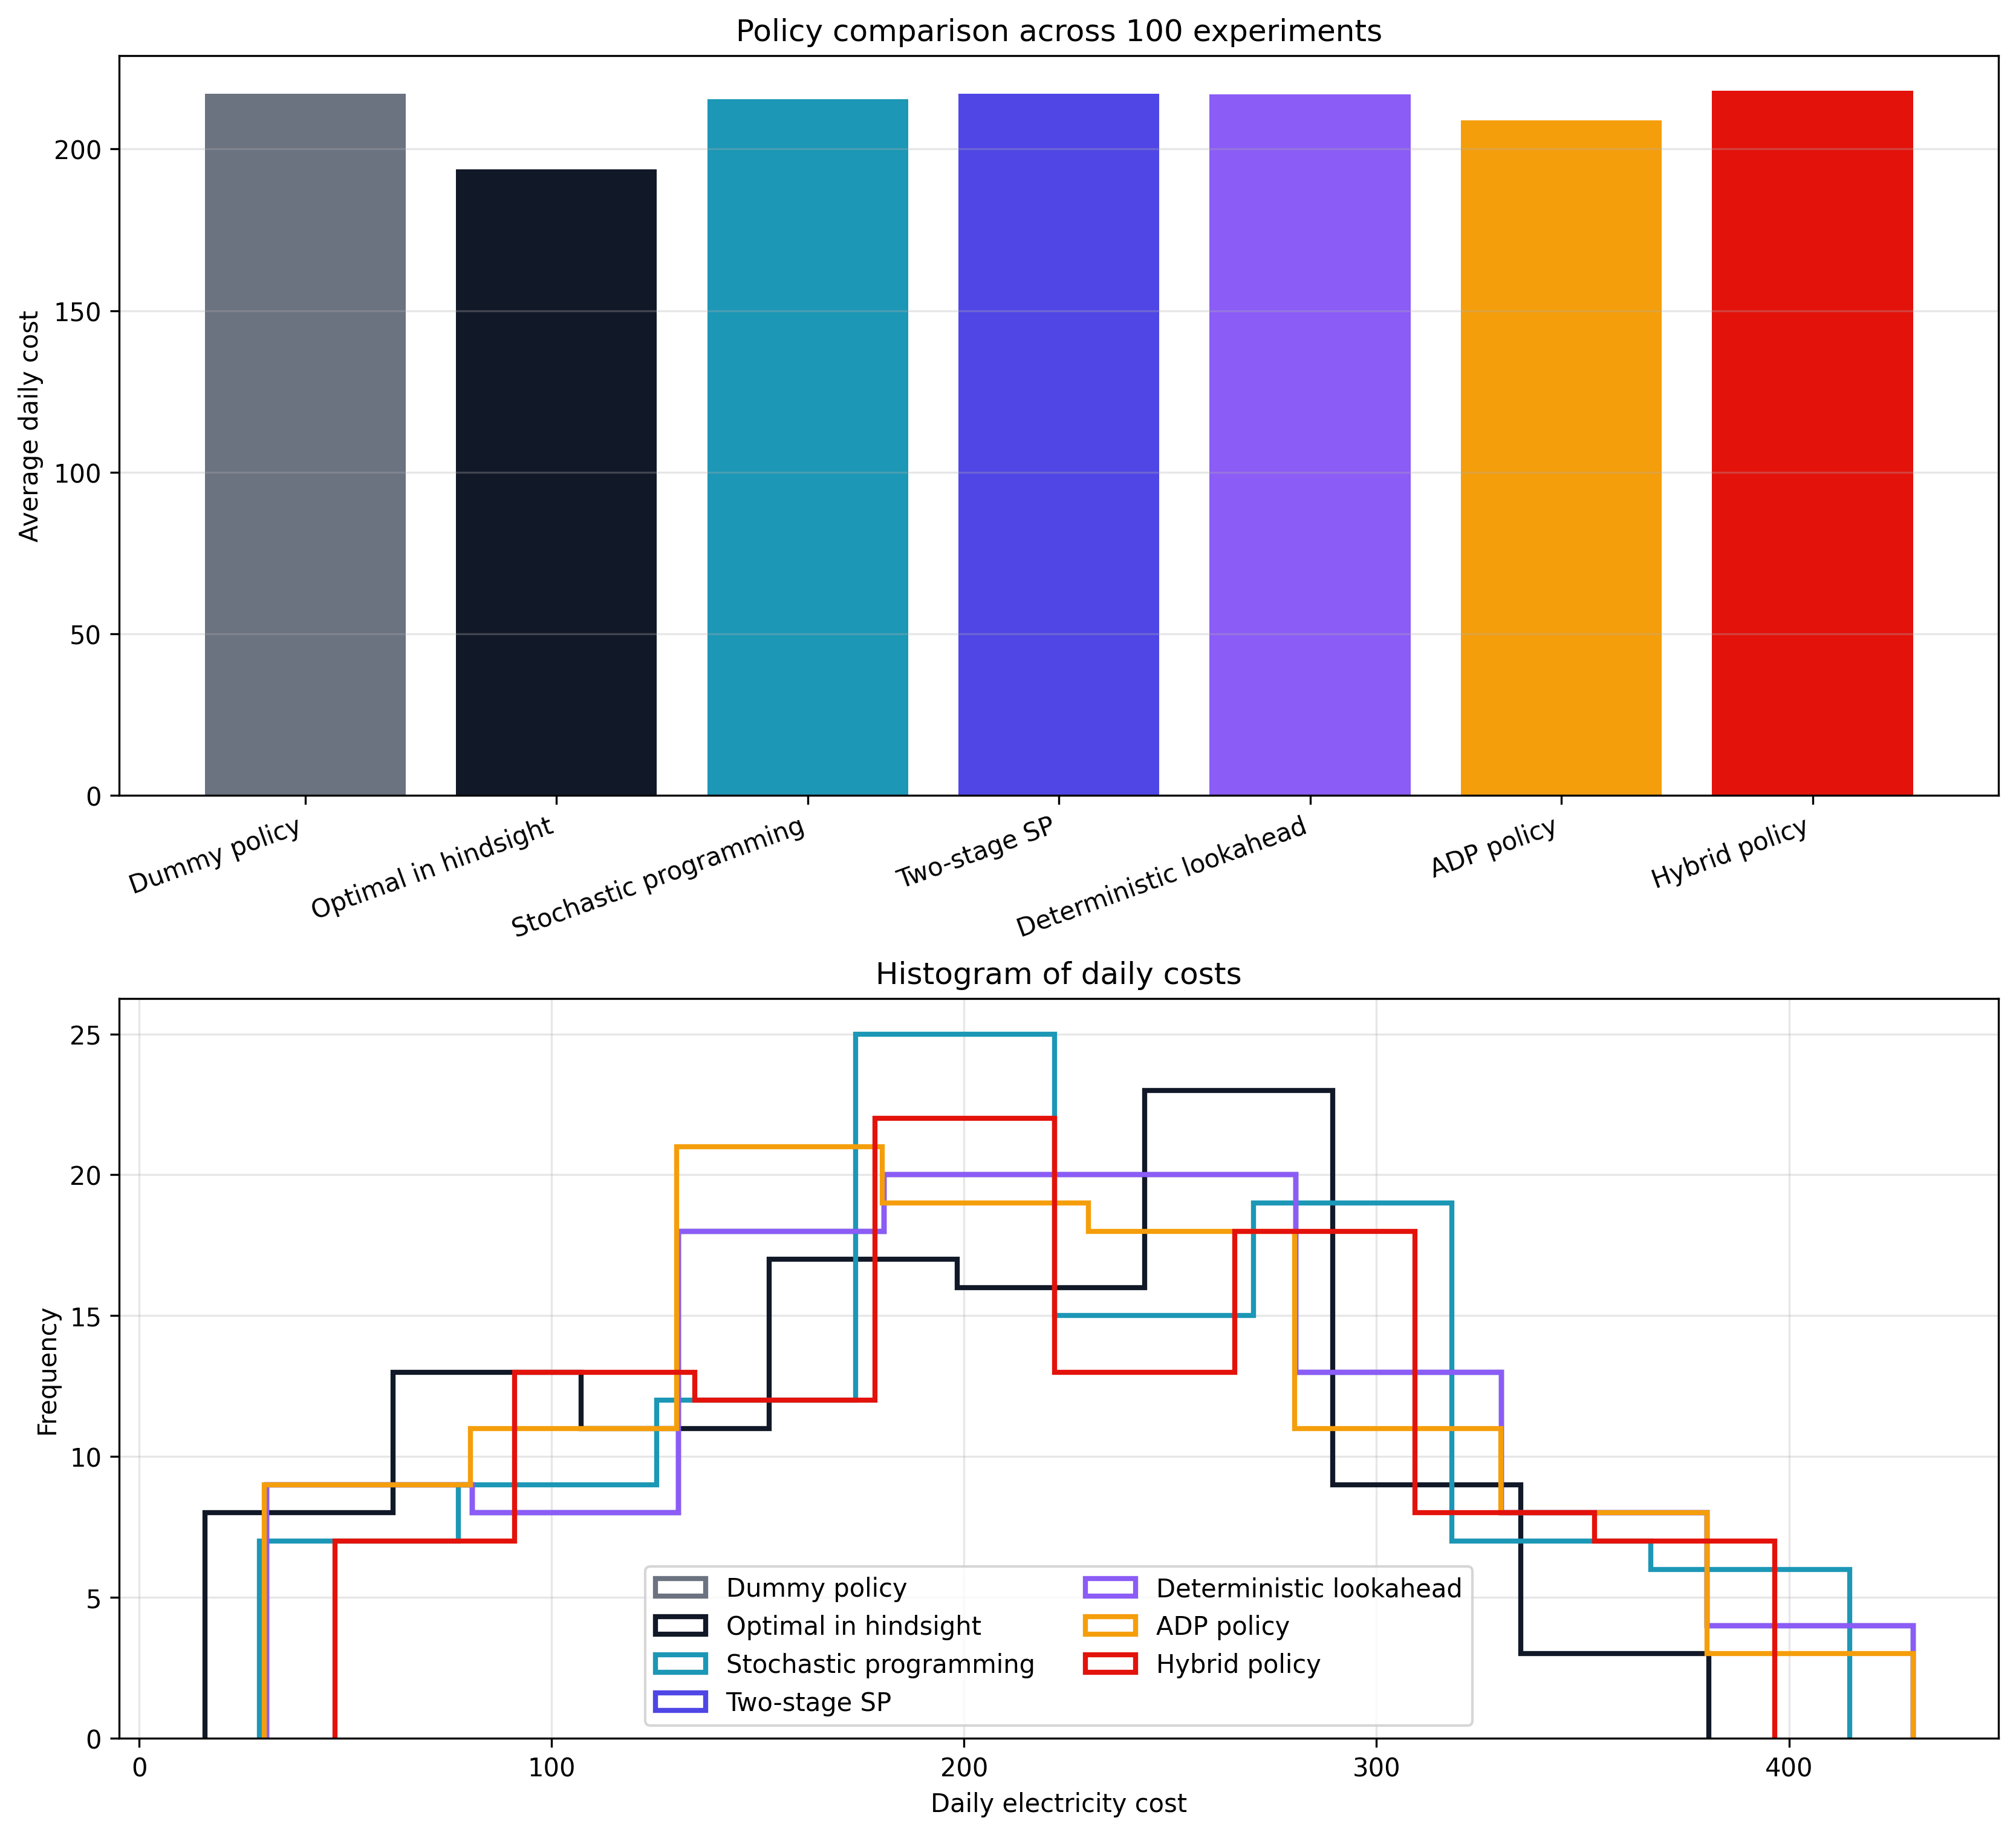
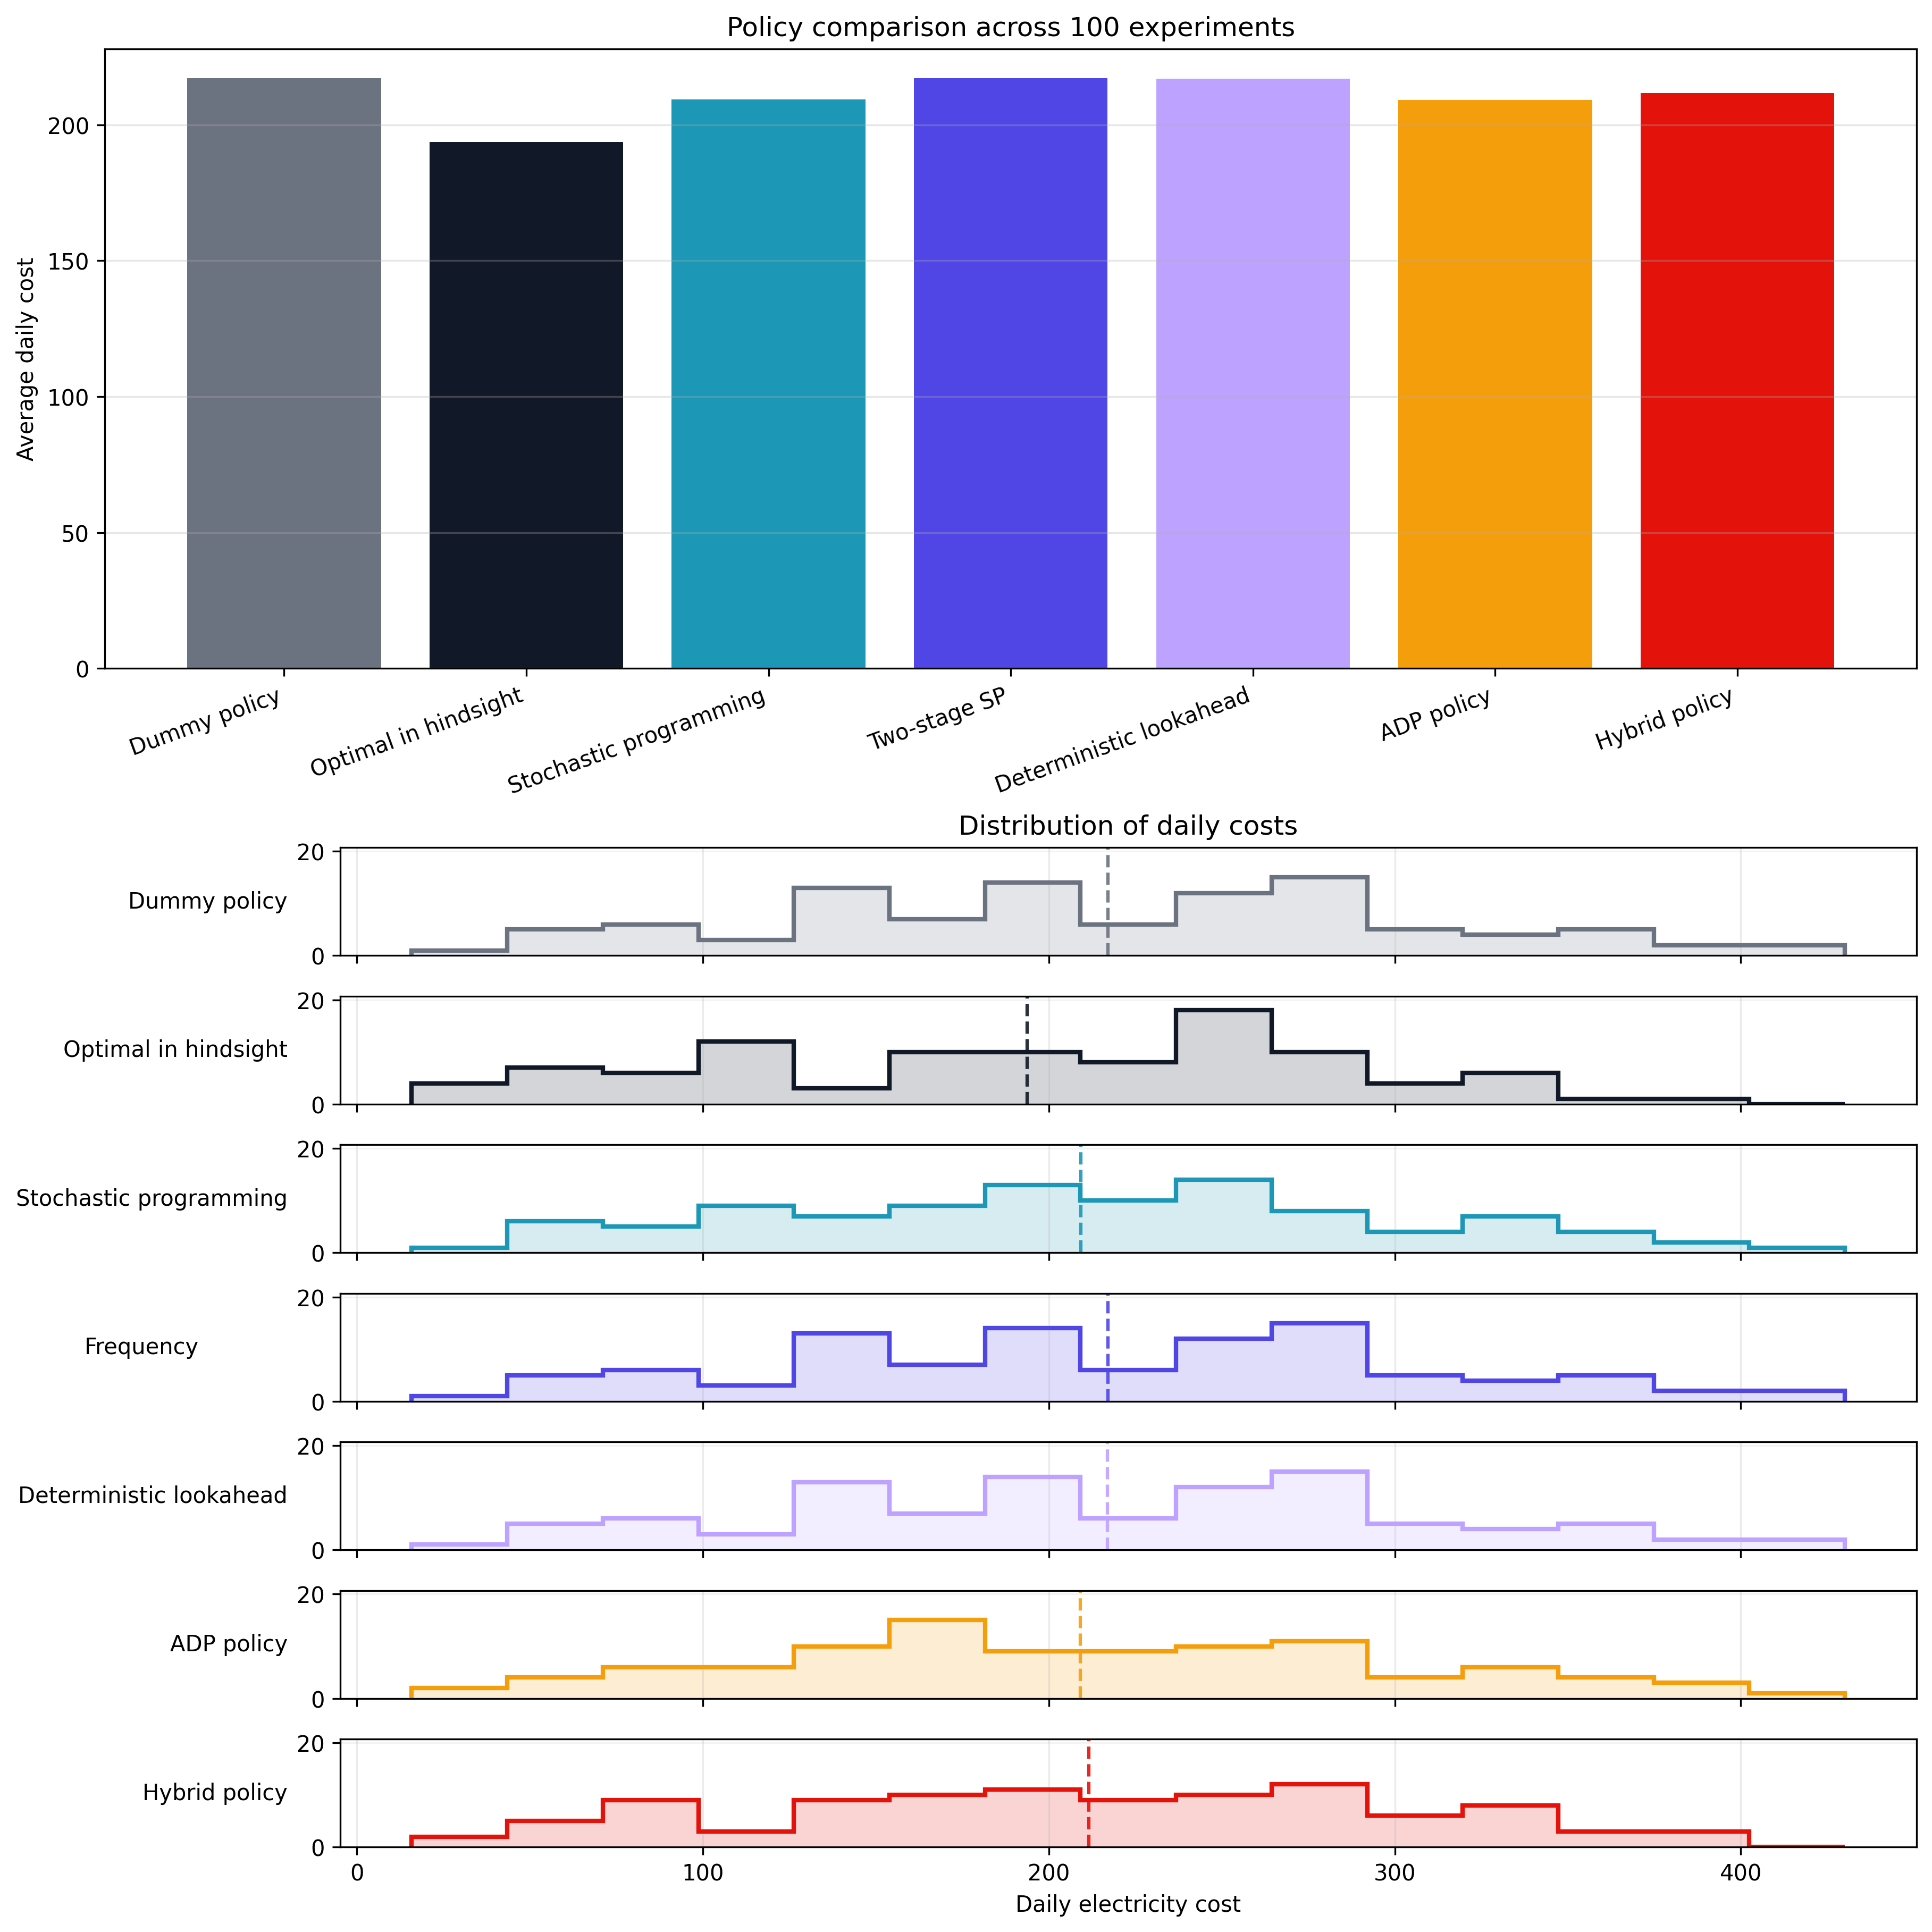
mathilde branch playful stuff

diff --git a/Assignment_B/ComparePolicies.py b/Assignment_B/ComparePolicies.py
@@ -18,6 +18,7 @@ from typing import Any, Dict
 
 import matplotlib.pyplot as plt
 import numpy as np
+import time
 
 import Policies.Dummy_policy_27 as Dummy_policy_27
 import Policies.Hybrid_policy_27 as Hybrid_policy_27
@@ -144,9 +145,7 @@ def evaluate_policies(experiments: int) -> Dict[str, Dict[str, Any]]:
     results: Dict[str, Dict[str, Any]] = {}
 
     for name, policy in policies.items():
-        print("------------------------------------")
-        print(f"Evaluating policy: {name} over {len(day_indices)} day(s)...")
-        print("------------------------------------")
+        start_time = time.perf_counter()
         daily_costs = np.zeros(len(day_indices), dtype=float)
 
         for idx, day in enumerate(day_indices):
@@ -165,10 +164,12 @@ def evaluate_policies(experiments: int) -> Dict[str, Dict[str, Any]]:
             "day_indices": np.asarray(day_indices, dtype=int),
             "daily_costs": daily_costs,
             "average_daily_cost": float(np.mean(daily_costs)) if len(daily_costs) else 0.0,
+            "elapsed_seconds": float(time.perf_counter() - start_time),
         }
 
-    return results
+        print(f"Evaluated {_policy_label(name)} in {results[name]['elapsed_seconds']:.2f}s")
 
+    return results
 
 def plot_comparison(results: Dict[str, Dict[str, Any]], output_path: str, experiments: int) -> None:
     colors = {
@@ -179,58 +180,98 @@ def plot_comparison(results: Dict[str, Dict[str, Any]], output_path: str, experi
         "Expected value": "#BEA2FF",
         "ADP": "#F59E0B",
         "Hybrid": "#E3120B",
-        
     }
 
     names = list(results.keys())
-    fig, axes = plt.subplots(2, 1, figsize=(11, 10), constrained_layout=True)
 
+    # More vertical space because the bottom plot has one row per policy
+    fig = plt.figure(figsize=(12, 12), constrained_layout=True)
+    gs = fig.add_gridspec(2, 1, height_ratios=[1.0, 1.8])
+
+    ax_bar = fig.add_subplot(gs[0])
+    bottom_gs = gs[1].subgridspec(len(names), 1, hspace=0.08)
+    ax_hists = [fig.add_subplot(bottom_gs[i]) for i in range(len(names))]
+
+    # -----------------------------
+    # Top plot: average daily costs
+    # -----------------------------
     avg_costs = [results[name]["average_daily_cost"] for name in names]
-    axes[0].bar([_policy_label(name) for name in names], avg_costs, color=[colors[name] for name in names])
-    axes[0].set_ylabel("Average daily cost")
-    axes[0].set_title(f"Policy comparison across {experiments} experiments")
-    axes[0].tick_params(axis="x", labelrotation=20)
-    for label in axes[0].get_xticklabels():
-        label.set_ha("right")
-    axes[0].grid(True, axis="y", alpha=0.3)
 
-    # Histogram outlines of daily costs (one per policy)
-    all_costs = np.concatenate([results[name]["daily_costs"] for name in names if len(results[name]["daily_costs"])])
+    ax_bar.bar(
+        [_policy_label(name) for name in names],
+        avg_costs,
+        color=[colors[name] for name in names],
+    )
+    ax_bar.set_ylabel("Average daily cost")
+    ax_bar.set_title(f"Policy comparison across {experiments} experiments")
+    ax_bar.tick_params(axis="x", labelrotation=20)
+
+    for label in ax_bar.get_xticklabels():
+        label.set_ha("right")
+
+    ax_bar.grid(True, axis="y", alpha=0.3)
+
+    # -----------------------------
+    # Bottom plot: small-multiple histograms
+    # -----------------------------
+    all_costs = np.concatenate([
+        results[name]["daily_costs"]
+        for name in names
+        if len(results[name]["daily_costs"])
+    ])
+
     if len(all_costs) > 0:
-        handles: Dict[str, Any] = {}
+        # Use common bins for all policies
+        bins = np.histogram_bin_edges(all_costs, bins="auto")
+
+        # Common y-axis limit for fair visual comparison
+        max_count = 0
         for name in names:
+            counts, _ = np.histogram(results[name]["daily_costs"], bins=bins)
+            max_count = max(max_count, counts.max())
+
+        for i, (ax, name) in enumerate(zip(ax_hists, names)):
             data = results[name]["daily_costs"]
-            if len(data) == 0:
-                continue
-            # plot histogram outline for this policy
-            bins = np.histogram_bin_edges(data, bins="auto")
-            _, _, patches = axes[1].hist(
+            color = colors[name]
+
+            ax.hist(
+                data,
+                bins=bins,
+                histtype="stepfilled",
+                alpha=0.18,
+                color=color,
+            )
+
+            ax.hist(
                 data,
                 bins=bins,
                 histtype="step",
                 linewidth=2.0,
-                label=_policy_label(name),
-                color=colors[name],
+                color=color,
             )
-            handles[name] = patches[0]
-    axes[1].set_xlabel("Daily electricity cost")
-    axes[1].set_ylabel("Frequency")
-    axes[1].set_title("Histogram of daily costs")
-    # Enforce specific legend order preferred by the user
-    desired_order = [
-        "Dummy",
-        "Optimal in Hindsight",
-        "SP",
-        "TwoStageSP",
-        "Expected value",
-        "ADP",
-        "Hybrid",
-    ]
-    legend_handles = [handles[n] for n in desired_order if n in handles]
-    legend_labels = [_policy_label(n) for n in desired_order if n in handles]
-    if legend_handles:
-        axes[1].legend(legend_handles, legend_labels, ncol=2)
-    axes[1].grid(True, alpha=0.3)
+
+            # Show the average as a dashed vertical line
+            ax.axvline(
+                results[name]["average_daily_cost"],
+                linestyle="--",
+                linewidth=1.5,
+                color=color,
+                alpha=0.9,
+            )
+
+            ax.set_ylim(0, max_count * 1.15)
+            ax.set_ylabel(_policy_label(name), rotation=0, ha="right", va="center")
+            ax.grid(True, axis="x", alpha=0.25)
+            ax.grid(True, axis="y", alpha=0.15)
+
+            # Hide x tick labels except on the last plot
+            if i < len(ax_hists) - 1:
+                ax.tick_params(labelbottom=False)
+            else:
+                ax.set_xlabel("Daily electricity cost")
+
+    ax_hists[0].set_title("Distribution of daily costs")
+    ax_hists[len(ax_hists) // 2].set_ylabel("Frequency", labelpad=70)
 
     plots_dir = Path(output_path).parent
     plots_dir.mkdir(parents=True, exist_ok=True)

diff --git a/Assignment_B/TestHybridPolicy.py b/Assignment_B/TestHybridPolicy.py
@@ -1,0 +1,62 @@
+"""Test script to evaluate the Hybrid policy over 100 experiment days."""
+
+from __future__ import annotations
+import time
+
+import numpy as np
+
+import Policies.SP_policy_27 as Hybrid_policy_27
+from SimulationEnvironment import RestaurantSimulationEnvironment
+
+
+def test_hybrid_policy(experiments: int = 100) -> None:
+    """Evaluate the hybrid policy over multiple experiment days.
+    
+    Args:
+        experiments: Number of days to evaluate (default 100)
+    """
+    start_time = time.perf_counter()
+    env = RestaurantSimulationEnvironment()
+    
+    if experiments <= 0:
+        raise ValueError("experiments must be positive")
+    
+    day_indices = list(range(min(experiments, env.num_days)))
+    daily_costs = np.zeros(len(day_indices), dtype=float)
+    
+    print(f"Evaluating Hybrid policy over {len(day_indices)} days...")
+    
+    for idx, day in enumerate(day_indices):
+        if hasattr(Hybrid_policy_27, "reset"):
+            try:
+                Hybrid_policy_27.reset()
+            except TypeError:
+                pass
+        
+        episode = env.evaluate_policy(Hybrid_policy_27, day=day)
+        daily_costs[idx] = float(episode["total_cost"])
+        
+        if (idx + 1) % 10 == 0:
+            print(f"  Completed day {idx + 1}/{len(day_indices)}")
+    
+    average_cost = float(np.mean(daily_costs))
+    std_cost = float(np.std(daily_costs))
+    min_cost = float(np.min(daily_costs))
+    max_cost = float(np.max(daily_costs))
+    
+    elapsed_seconds = float(time.perf_counter() - start_time)
+
+    print("\n" + "=" * 50)
+    print("Hybrid Policy Performance Summary")
+    print("=" * 50)
+    print(f"Number of experiments:  {len(day_indices)}")
+    print(f"Average daily cost:     {average_cost:.2f}")
+    print(f"Std dev of daily cost:  {std_cost:.2f}")
+    print(f"Min daily cost:         {min_cost:.2f}")
+    print(f"Max daily cost:         {max_cost:.2f}")
+    print(f"Elapsed time:           {elapsed_seconds:.2f} seconds")
+    print("=" * 50)
+
+
+if __name__ == "__main__":
+    test_hybrid_policy(experiments=100)

diff --git a/Assignment_B/Policies/Hybrid_policy_27.py b/Assignment_B/Policies/Hybrid_policy_27.py
@@ -3,6 +3,10 @@
 import numpy as np
 import pyomo.environ as pyo
 
+import sys
+from pathlib import Path
+sys.path.insert(0, str(Path(__file__).parent.parent))
+
 import Data.v2_SystemCharacteristics as SystemCharacteristics
 import Data.PriceProcessRestaurant
 import Data.OccupancyProcessRestaurant
@@ -49,11 +53,11 @@ def select_action(state):
     MIP_GAP = 0.03
 
     # Hybrid / ADP-style terminal value parameters
-    T_REF = TOK
-    H_SAFE = HHigh - 2.0
-    GAMMA_T_LOW = 8.0
-    GAMMA_T_HIGH = 1.0
-    GAMMA_H = 3.0
+    T_REF = TOK + 0.3
+    H_SAFE = HHigh
+    GAMMA_T_LOW = 3.0
+    GAMMA_T_HIGH = 0.2
+    GAMMA_H = 0.5
 
     # =========================================================
     # Helpers
@@ -565,7 +569,7 @@ def select_action(state):
 
     for n in leaf_nodes:
         for r in [1, 2]:
-            m.terminal_value_constraints.add(m.term_low_T[n, r] >= T_REF - m.Temp[n, r])
+            m.terminal_value_constraints.add(m.term_low_T[n, r] >= Tlow - m.Temp[n, r])
             m.terminal_value_constraints.add(m.term_high_T[n, r] >= m.Temp[n, r] - THigh)
 
         m.terminal_value_constraints.add(m.term_high_H[n] >= m.Hum[n] - H_SAFE)
@@ -603,7 +607,7 @@ def select_action(state):
     # print("Energy cost part:", pyo.value(energy_cost))
     # print("Terminal value part:", pyo.value(terminal_value))
 
-    # ----------------------------------------------
+    # -----------------------------------------------------
     # Extract here-and-now action from root node
     # -----------------------------------------------------
     p1 = pyo.value(m.pf[root, 1])

diff --git a/Assignment_B/Test/test_policies.py b/Assignment_B/Test/test_policies.py
@@ -1,12 +1,10 @@
-
-
 from pathlib import Path
 import sys
 
 sys.path.append(str(Path(__file__).resolve().parents[1]))
 
 import Policies.SP_policy_27 as SP_policy
-import Policies.Hybrid_policy_27 as hybrid_policy
+#import Policies.Hybrid_policy_27 as hybrid_policy
 
 from v2_Checks import check_and_sanitize_action
 
@@ -27,12 +25,12 @@ state = {
 PowerMax = {1: 3.0, 2: 3.0}
 
 action_SP = check_and_sanitize_action(SP_policy, state, PowerMax)
-action_hybrid = check_and_sanitize_action(hybrid_policy, state, PowerMax)
+#action_hybrid = check_and_sanitize_action(hybrid_policy, state, PowerMax)
 
 print(" ")
 print("Sanitized action SP:")
 print(action_SP)
 
-print(" ")
-print("Sanitized action Hybrid:")
-print(action_hybrid)
+#print(" ")
+#print("Sanitized action Hybrid:")
+#print(action_hybrid)

diff --git a/Assignment_B/Policies/SP_policy_27.py b/Assignment_B/Policies/SP_policy_27.py
@@ -8,7 +8,7 @@ import Data.PriceProcessRestaurant
 import Data.OccupancyProcessRestaurant
 
 
-def select_action(state, lookahead: int = 4):
+def select_action(state):
 
     # =========================================================
     # Fixed problem data
@@ -41,9 +41,7 @@ def select_action(state, lookahead: int = 4):
     # =========================================================
     # Policy tuning parameters
     # =========================================================
-    LOOKAHEAD = int(lookahead)  # total number of stages including current stage
-    if LOOKAHEAD < 2:
-        raise ValueError("lookahead must be at least 2")
+    LOOKAHEAD = 5
     INITIAL_SAMPLES = 30       # raw samples per node before reduction
     REDUCED_BRANCHES = 3      # reduced children per non-leaf node
     BIG_M = 100.0